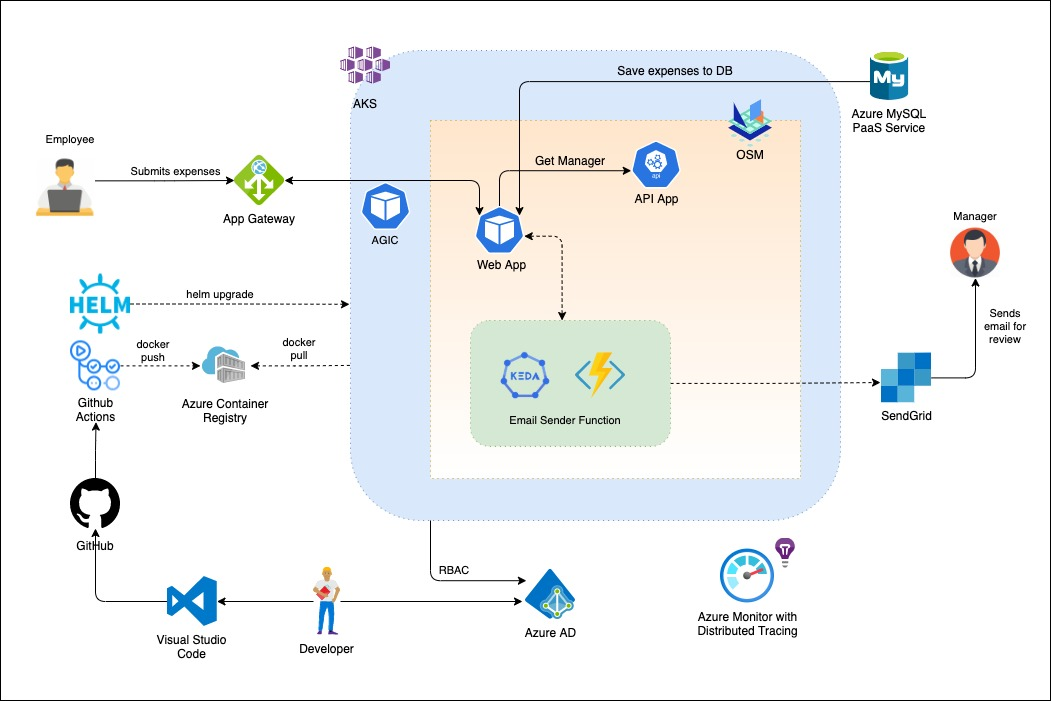
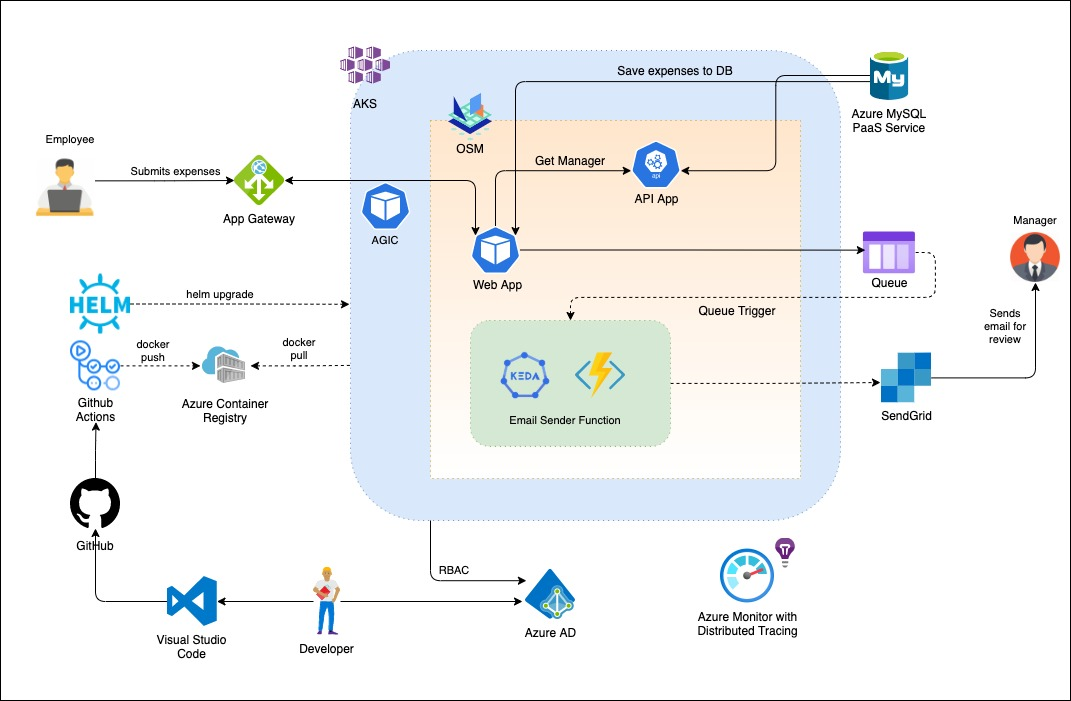
Updated Documentation

diff --git a/README.md b/README.md
@@ -29,22 +29,29 @@ We will create and setup the infrastructure including the following services:
 #### Initialize variables
 
 ```bash
-RG='CNCF-Azure-RG'
-CLUSTER_NAME='cncfazcluster'
-LOCATION='westus'
-AppGtwy='CNCFAppGtwy'
-ACR='cncfazure'
-domainName='sarwascloud.com'
-MYSQL='expensedbserver'
-adminUser='expenseadmin'
-mysqlPwd='Azure1234!@#$'
-KeyVault='expensesvault'
+# Add variables
+RG=''
+CLUSTER_NAME=''
+LOCATION=''
+AppGtwy=''
+ACR=''
+domainName=''
+MYSQL=''
+adminUser=''
+mysqlPwd=''
+KeyVault=''
+identityName=''
+storageAcc=''
+queueName=''
+SUBID=''
 ```
 
 #### Login to Azure
 
 ```bash
 az login
+
+az account set -s $SUBID
 ```
 
 #### Create Resource Group
@@ -74,7 +81,7 @@ az aks create \
     --network-plugin azure \
     --enable-managed-identity \
     -a ingress-appgw --appgw-name $AppGtwy \
-    --appgw-subnet-prefix "10.2.0.0/16" \
+    --appgw-subnet-cidr "10.2.0.0/16" \
     --enable-aad \
     --enable-pod-identity \
     --aad-admin-group-object-ids $objectId \
@@ -114,22 +121,11 @@ az aks get-credentials --resource-group $RG --name $CLUSTER_NAME --admin
 # Note: --validate=false is required per https://github.com/jetstack/cert-manager/issues/2208#issuecomment-541311021
 kubectl apply -f https://raw.githubusercontent.com/jetstack/cert-manager/release-0.13/deploy/manifests/00-crds.yaml --validate=false
 
-# Create the namespace for cert-manager
 kubectl create namespace cert-manager
-
-# Label the cert-manager namespace to disable resource validation
 kubectl label namespace cert-manager cert-manager.io/disable-validation=true
-
-# Add the Jetstack Helm repository
 helm repo add jetstack https://charts.jetstack.io
-
-# Update your local Helm chart repository cache
 helm repo update
-
-# Install v0.11 of cert-manager Helm chart
 helm install cert-manager --namespace cert-manager --version v0.13.0 jetstack/cert-manager
-
-# Install Cluster Issuer (change email address)
 kubectl apply -f yml/clusterissuer.yaml
 
 # Test a sample application. The below command will deploy a Pod, Service and Ingress resource. Application Gateway will be configured with the associated rules.
@@ -137,7 +133,6 @@ kubectl apply -f yml/Test-App-Ingress.yaml
 
 # Clean up after successfully verifying AGIC
 kubectl delete -f yml/Test-App-Ingress.yaml
-
 ```
 
 #### Install KEDA runtime
@@ -149,17 +144,59 @@ kubectl create namespace keda
 helm install keda kedacore/keda --namespace keda
 ```
 
+#### Install CSI Provider for Azure Keyvault
+
+```bash
+helm repo add csi-secrets-store-provider-azure https://raw.githubusercontent.com/Azure/secrets-store-csi-driver-provider-azure/master/charts
+helm repo update
+kubectl create namespace csi
+helm install csi csi-secrets-store-provider-azure/csi-secrets-store-provider-azure --namespace csi
+```
+
+#### Assign managed identity
+
+```bash
+clientId=$(az aks show -n $CLUSTER_NAME -g $RG --query identityProfile.kubeletidentity.clientId -o tsv)
+
+scope=$(az group show -g $nodeRG --query id -o tsv)
+
+az role assignment create --role "Managed Identity Operator" --assignee $clientId --scope $scope
+```
+
+#### Create Azure Keyvault for saving secrets and assign identity
+
+```bash
+az keyvault create --location $LOCATION --name $KeyVault --resource-group $RG
+
+kvscope=$(az keyvault show -g $RG -n $KeyVault --query id -o tsv)
+
+az identity create -g $RG -n $identityName
+
+idClientid=$(az identity show -n $identityName -g $RG --query clientId -o tsv)
+
+idPincipalid=$(az identity show -n $identityName -g $RG --query principalId -o tsv)
+
+identityId=$(az identity show -n $identityName -g $RG --query id -o tsv)
+
+az role assignment create --role "Reader" --assignee $idPincipalid --scope $kvscope
+
+az keyvault set-policy -n $KeyVault --secret-permissions get --spn $idClientid
+
+az aks pod-identity add --resource-group $RG --cluster-name $CLUSTER_NAME --namespace default --name $identityName --identity-resource-id $identityId
+```
+
 #### Create MySQL managed service (basic sku) and add Kubernetes public ip in it firewall rules
 
 ```bash
 az mysql server create --resource-group $RG --name $MYSQL --location $LOCATION --admin-user $adminUser --admin-password $mysqlPwd --sku-name B_Gen5_2
-az mysql server firewall-rule create --name allowip --resource-group $RG --server-name $MYSQL --start-ip-address <Kubernetes Public IP> --end-ip-address <Kubernetes Public IP>
+az mysql server firewall-rule create --name allowip --resource-group $RG --server-name $MYSQL --start-ip-address 13.87.129.17 --end-ip-address 13.87.129.17
+az mysql server firewall-rule create --name allowip2 --resource-group $RG --server-name $MYSQL --start-ip-address 67.170.114.246 --end-ip-address 67.170.114.246
 ```
 
 #### Login to MySQL (you may need to add you ip to firewall rules as well)
 
 ```bash
-mysql -h expensedbserver.mysql.database.azure.com -u expenseadmin@expensedbserver -p
+mysql -h $MYSQL.mysql.database.azure.com -u $adminUser@$MYSQL -p
 show databases;
 
 CREATE DATABASE conexpweb;
@@ -175,21 +212,20 @@ CREATE TABLE CostCenters(
    PRIMARY KEY ( CostCenterId )
 );
 
-INSERT INTO CostCenters (CostCenterId, SubmitterEmail,ApproverEmail,CostCenterName)  values (1, 'user1@mycompany.com', 'user1@mycompany.com','123E42');
-INSERT INTO CostCenters (CostCenterId, SubmitterEmail,ApproverEmail,CostCenterName)  values (2, 'user2@mycompany.com', 'user2@mycompany.com','456C14');
-INSERT INTO CostCenters (CostCenterId, SubmitterEmail,ApproverEmail,CostCenterName)  values (3, 'user3@mycompany.com', 'user3@mycompany.com','456C14');
+# Insert example records
+INSERT INTO CostCenters (CostCenterId, SubmitterEmail,ApproverEmail,CostCenterName)  values (1, 'ssarwa@microsoft.com', 'ssarwa@microsoft.com','123E42');
+INSERT INTO CostCenters (CostCenterId, SubmitterEmail,ApproverEmail,CostCenterName)  values (2, 'ssarwa@microsoft.com', 'ssarwa@microsoft.com','456C14');
+INSERT INTO CostCenters (CostCenterId, SubmitterEmail,ApproverEmail,CostCenterName)  values (3, 'ssarwa@microsoft.com', 'ssarwa@microsoft.com','456C14');
 
-USE conexpapi;
-GRANT ALL PRIVILEGES ON *.* TO 'expenseadmin'@'%';
-
-USE conexpweb;
-GRANT ALL PRIVILEGES ON *.* TO 'expenseadmin'@'%';
+quit
 ```
 
-#### Create Azure Keyvault for saving secrets
+#### Create Storage queue
 
 ```bash
-az keyvault create --location $LOCATION --name $KeyVault --resource-group $RG
+az storage account create -n $storageAcc -g $RG -l $LOCATION --sku Standard_LRS
+
+az storage queue create -n $queueName --account-name $storageAcc
 ```
 
 #### Add corresponding secrets to the create KeyVault
@@ -201,6 +237,49 @@ az keyvault create --location $LOCATION --name $KeyVault --resource-group $RG
    1. storageconn
 3. Sendgrid Key
    1. sendgridapi
+
+```bash
+az keyvault secret set --vault-name $KeyVault --name mysqlconnapi --value '<replace>Connection strings for MySQL API connection</replace>'
+az keyvault secret set --vault-name $KeyVault --name mysqlconnweb --value '<replace>Connection strings for MySQL Web connection</replace>'
+az keyvault secret set --vault-name $KeyVault --name storageconn --value '<replace>Connection strings for Storage account</replace>'
+az keyvault secret set --vault-name $KeyVault --name sendgridapi --value '<replace>Sendgrid Key</replace>'
+az keyvault secret set --vault-name $KeyVault --name funcruntime --value 'dotnet'
+```
+
+#### Application Deployment
+
+```bash
+registryHost=$(az acr show -n $ACR --query loginServer -o tsv)
+
+az acr login -n $ACR
+
+cd source/Contoso.Expenses.API
+docker build -t $registryHost/conexp/api:latest .
+docker push $registryHost/conexp/api:latest
+
+cd ..
+docker build -t $registryHost/conexp/web:latest -f Contoso.Expenses.Web/Dockerfile .
+docker push $registryHost/conexp/web:latest
+
+docker build -t $registryHost/conexp/emaildispatcher:latest -f Contoso.Expenses.KedaFunctions/Dockerfile .
+docker push $registryHost/conexp/emaildispatcher:latest
+
+cd ..
+
+# Update yamls files and change identity name, keyvault name and image used
+# Create CSI Provider Class
+kubectl apply -f yml/csi-sync.yaml
+
+# Create API
+kubectl apply -f yml/backend.yaml
+
+# Create frontend
+kubectl apply -f yml/frontend.yaml
+
+# Create KEDA function
+kubectl apply -f yml/function.yaml
+
+```
 
 #### Prepare Github Actions
 
@@ -219,18 +298,6 @@ az role assignment create \
   --assignee <ClientId> \
   --scope $registryId \
   --role AcrPush
-
-# Get read access to KeyVault
-az keyvault set-policy -n $KeyVault --secret-permissions get list --spn <ClientId>
-
-# Install CSI Provider for Azure Keyvault
-
-helm repo add csi-secrets-store-provider-azure https://raw.githubusercontent.com/Azure/secrets-store-csi-driver-provider-azure/master/charts
-helm install csi csi-secrets-store-provider-azure/csi-secrets-store-provider-azure
-
-# Create CSI Provider Class
-
-kubectl apply -f yml/csi-sync.yaml
 
 # Now you are ready to trigger the build and release from Github Actions using the provided Actions file.
 ```
